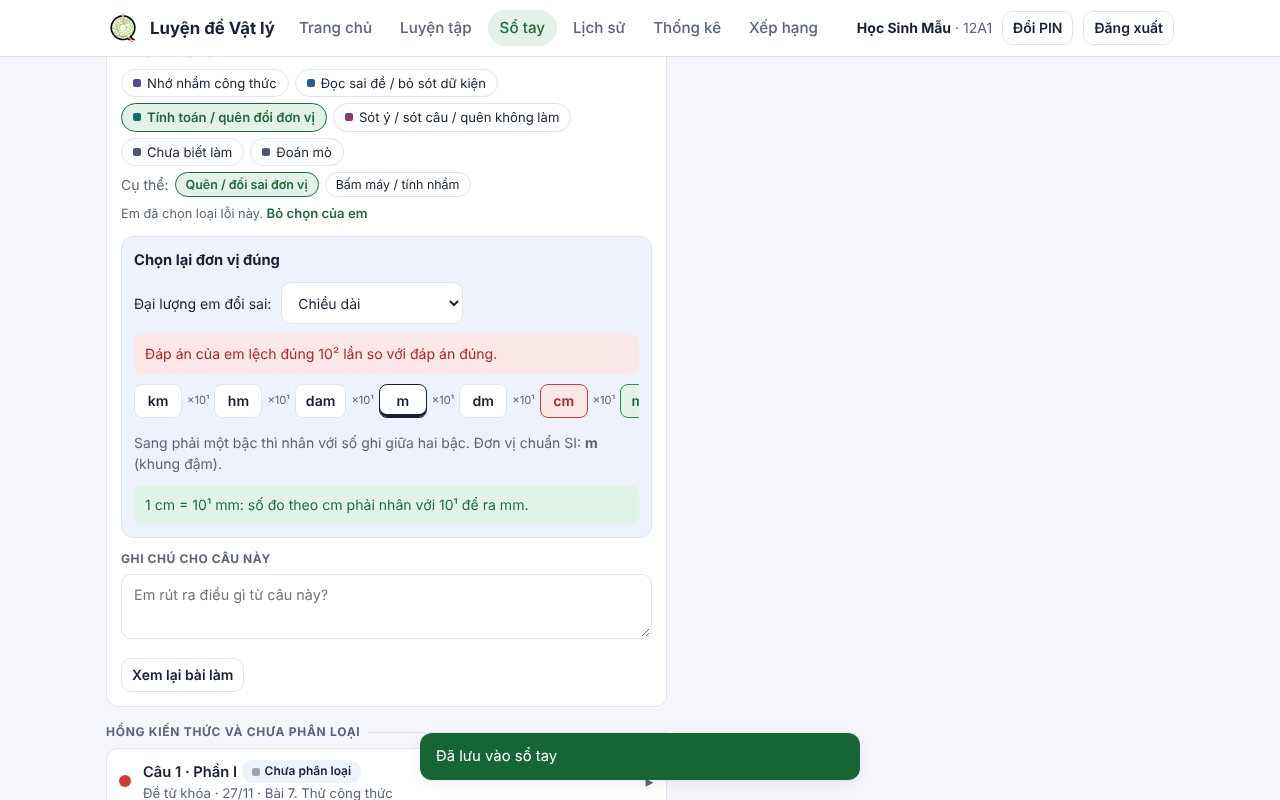
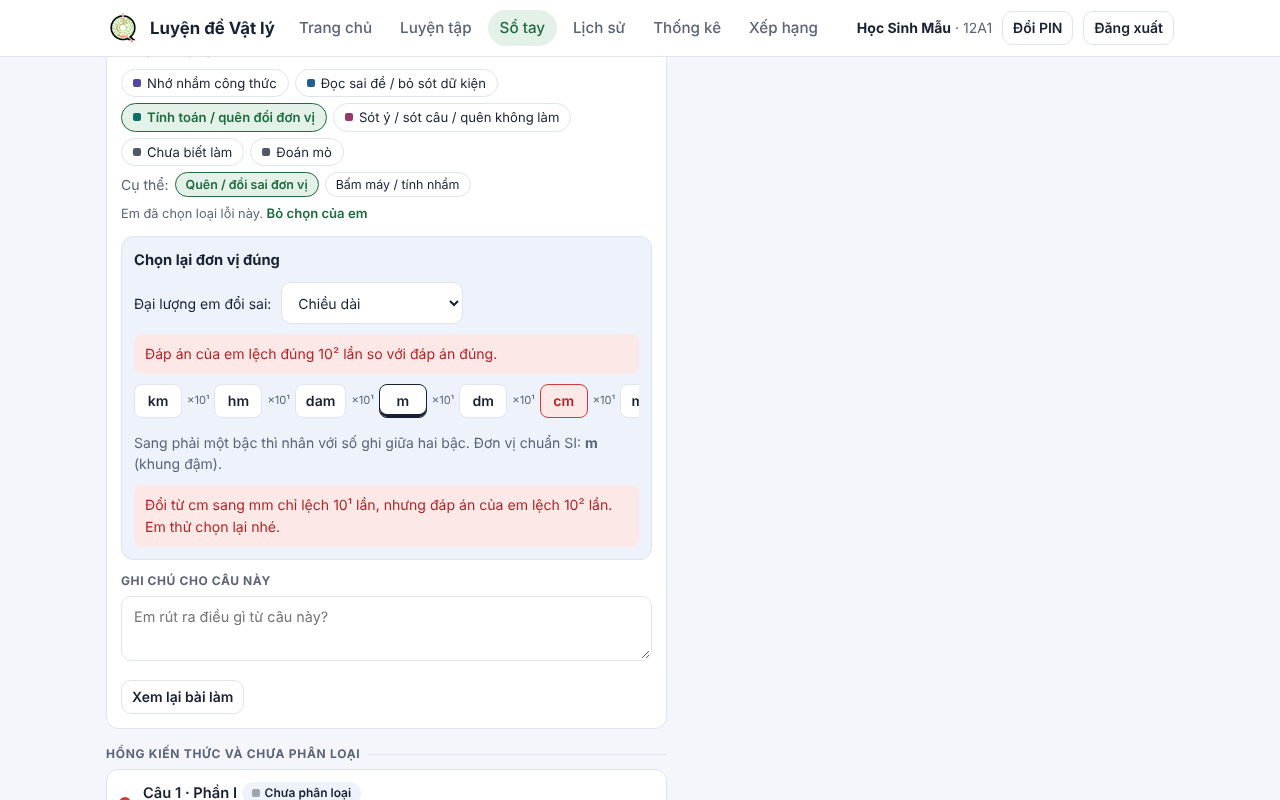
Pha 7b (kiểm thử): vòng 2 đang chạy — lưu bản dở (e2e, ảnh)
Claude-Session: https://claude.ai/code/session_01BBCuQ1QorEcsRk4FoU8uZP

diff --git a/tests/pha7b-kiem-thu.e2e.js b/tests/pha7b-kiem-thu.e2e.js
@@ -218,7 +218,9 @@ async function runNew(browser) {
     await shot(page, '03-em-sai-vi-sao-1280', { fullPage: true });
     // "Lỗi này em đã mắc n lần"
     const lap = await page.evaluate(() => { const e = document.querySelector('#nbResult .nb-lap'); return e ? e.textContent.replace(/\s+/g, ' ').trim() : ''; });
-    verdict('Trang kết quả (§7)', /mắc\s*\d+\s*lần/.test(lap), `dòng nhắc câu sai trùng loại lỗi đỏ: "${lap}" (đặc tả: "Lỗi này em đã mắc n lần")`);
+    const nSot = (await api(srv.base, 'notebook', { token: S.st })).items.filter((x) => x.loi.ma === 'SOT').length;
+    const mN = lap.match(/mắc\s*(\d+)\s*lần/);
+    verdict('Trang kết quả (§7)', mN && +mN[1] === nSot, `dòng nhắc câu sai trùng loại lỗi đỏ: "${lap}" — sổ tay có ${nSot} câu Sót ý (đặc tả: "Lỗi này em đã mắc n lần")`);
     // Bỏ qua → tải lại không hiện → "Phân loại lỗi" mở lại
     await page.click('[data-why="skip"]'); await page.waitForTimeout(500);
     const afterSkip = await visibleWhy(page);
@@ -264,7 +266,10 @@ async function runNew(browser) {
     await pick('cm'); await pick('mm'); const fbWrong = await fbAfter();
     console.log('      · đơn vị: chọn "cm": ' + JSON.stringify(fbEm) + ' | rồi "m": ' + JSON.stringify(fbRight) + ' | lượt 2 "cm"→"mm": ' + JSON.stringify(fbWrong));
     verdict('TC-7.12', isRight(fbRight) && /10²|10\^2|×\s*10/.test(fbRight.join(' ') + arrow), `em dùng "cm", chọn đơn vị đúng "m" → ${JSON.stringify(fbRight)}`);
-    verdict('TC-7.12 (biên)', !isRight(fbWrong), `máy đã biết lệch 10², em dùng "cm" mà chọn "mm" (chỉ 10¹) → ${JSON.stringify(fbWrong)} — mong: không báo đúng`);
+    await page.waitForTimeout(1500);
+    const itU = (await api(srv.base, 'notebookItem', { token: S.st, keys: [kU] }));
+    const ctU = JSON.stringify((itU.items || itU)[0] && ((itU.items || itU)[0].chiTiet || (itU.items || itU)[0].loi));
+    verdict('TC-7.12 (biên)', !isRight(fbWrong) && fbWrong.some((x) => /^\[bad\]/.test(x)) && !/"dvDung":"mm"/.test(ctU), `máy đã biết lệch 10², em dùng "cm" mà chọn "mm" (chỉ 10¹) → ${JSON.stringify(fbWrong)}; chi tiết lỗi đã lưu ${ctU}`);
     await shot(page, '04-cong-cu-don-vi-1280');
     // chọn nhiệt độ: công thức cộng trừ
     await page.selectOption(`.nb-item[data-key="${kU}"] [data-unitdl]`, 'nhietDo'); await page.waitForTimeout(250);
@@ -310,6 +315,41 @@ async function runNew(browser) {
     await page.fill('#nbGnote', 'x'.repeat(650)); const len = (await page.$eval('#nbGnote', (t) => t.value)).length;
     verdict('TC-7.11', len <= 500, `ô ghi chú chung nhận tối đa ${len} ký tự (máy chủ cũng cắt 500, xem bài Node)`);
     await page.fill('#nbGnote', gnote); await page.waitForTimeout(2600);
+    // ---- Vòng 2 (R-2): gõ ghi chú trong lúc trang vẽ lại; gõ rồi chuyển trang ngay ----
+    {
+      await page.reload(); await page.waitForSelector('#nbSplit .nb-item'); await page.waitForTimeout(600);
+      for (const k of [kK, S.K + '#2']) { await page.click(`.nb-row[data-nbopen="${k}"]`); await page.waitForTimeout(900); }
+      const sel = `.nb-item[data-key="${kK}"] [data-nbnote="${kK}"]`;
+      await page.fill(sel, ''); await page.focus(sel);
+      await page.keyboard.type('một ', { delay: 30 });
+      await page.evaluate((k) => document.querySelector(`.nb-item[data-key="${k}"] [data-nbma="HONG_KT"]`).click(), S.K + '#2');
+      await page.keyboard.type('hai ', { delay: 30 });
+      await page.evaluate(() => { const b = document.querySelector('#nbBook [data-nbfix="SOT"]'); if (b) b.click(); });
+      await page.keyboard.type('ba ', { delay: 30 });
+      await page.evaluate((k) => document.querySelector(`.nb-row[data-nbopen="${k}"]`).click(), S.D + '#1');
+      await page.waitForTimeout(60); await page.keyboard.type('bốn', { delay: 30 });
+      await page.waitForTimeout(1200); await page.keyboard.type(' năm', { delay: 30 }); // sau khi câu khác tải xong
+      const st = await page.evaluate((s2) => { const ta = document.querySelector(s2); return { v: ta && ta.value, focus: document.activeElement === ta, pos: ta && ta.selectionStart }; }, sel);
+      await page.waitForTimeout(2500);
+      const srvNote = ((await api(srv.base, 'notebookItem', { token: S.st, keys: [kK] })).items || [])[0];
+      const want = 'một hai ba bốn năm';
+      verdict('TC-7.11', st.v === want && st.focus && st.pos === want.length && srvNote && srvNote.ghiChu === want,
+        `vòng 2: gõ ghi chú trong lúc bấm chip câu khác, mở "Cách sửa", một câu khác tải xong → ô còn "${st.v}", con trỏ ở ${st.pos}, vẫn trong ô (${st.focus}); máy chủ lưu "${srvNote && srvNote.ghiChu}"`);
+      // gõ rồi rời trang ngay
+      await page.focus(sel); await page.keyboard.press('End'); await page.keyboard.type(' gấp', { delay: 20 });
+      await page.waitForTimeout(300);
+      await page.goto(srv.base + '/#/lich-su'); await page.waitForTimeout(2000);
+      const n2 = ((await api(srv.base, 'notebookItem', { token: S.st, keys: [kK] })).items || [])[0];
+      const g2 = (await api(srv.base, 'notebook', { token: S.st })).ghiChuChung;
+      await page.goto(srv.base + '/#/so-tay'); await page.waitForSelector('#nbGnote'); await page.waitForTimeout(500);
+      await page.focus('#nbGnote'); await page.keyboard.press('Control+End'); await page.keyboard.type(' X', { delay: 20 });
+      await page.waitForTimeout(200);
+      await page.evaluate(() => { location.hash = '#/'; });
+      await page.waitForTimeout(2000);
+      const g3 = (await api(srv.base, 'notebook', { token: S.st })).ghiChuChung;
+      verdict('TC-7.11', n2 && n2.ghiChu === want + ' gấp' && g3 === g2 + ' X', `vòng 2: gõ rồi chuyển trang sau 0,2–0,3 giây → ghi chú câu "${n2 && n2.ghiChu}", ghi chú chung kết thúc "${String(g3).slice(-12)}"`);
+      await page.goto(srv.base + '/#/so-tay'); await page.waitForSelector('#nbSplit .nb-item'); await page.waitForTimeout(400);
+    }
     // TC-7.14 thẻ công thức
     await api(srv.base, 'notebookTag', { token: S.st, items: [{ key: S.K + '#1', ma: 'CONG_THUC' }, { key: S.K + '#2', ma: 'CONG_THUC' }] });
     await page.reload(); await page.waitForSelector('#nbSplit .nb-item'); await page.waitForTimeout(500);
